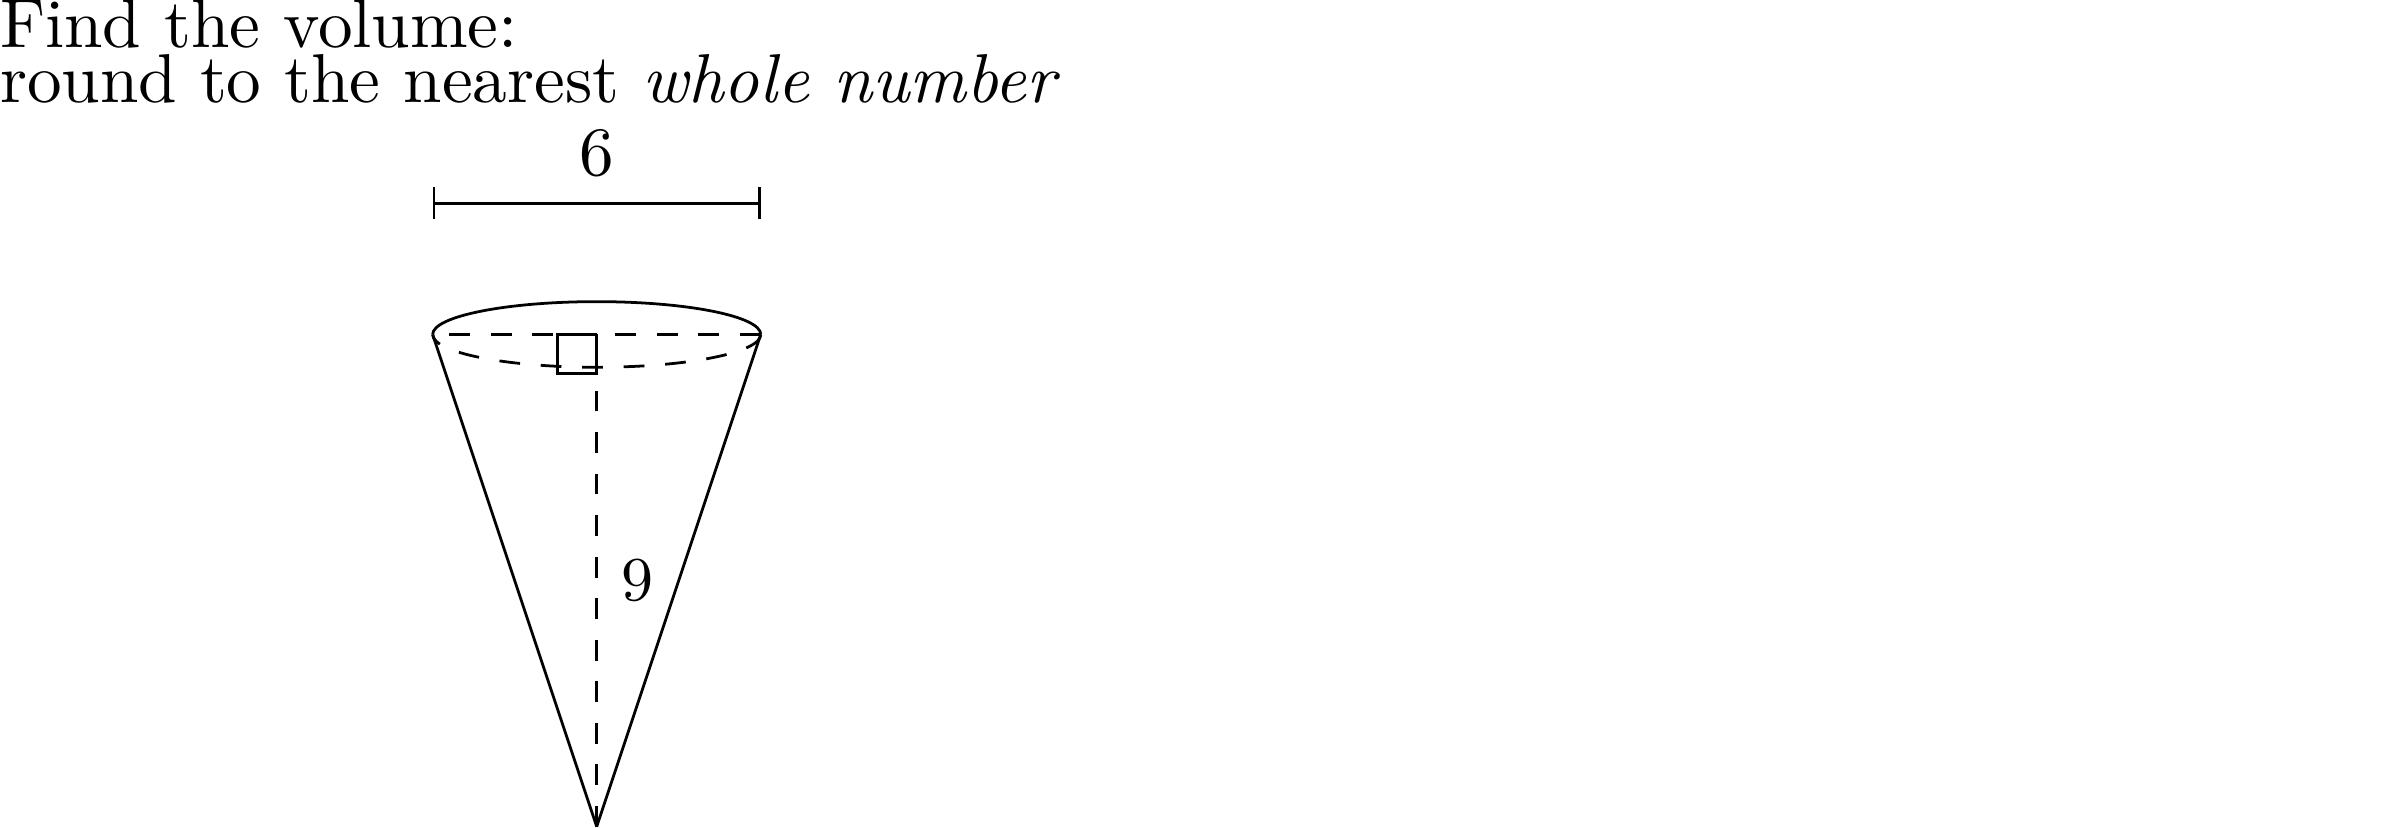
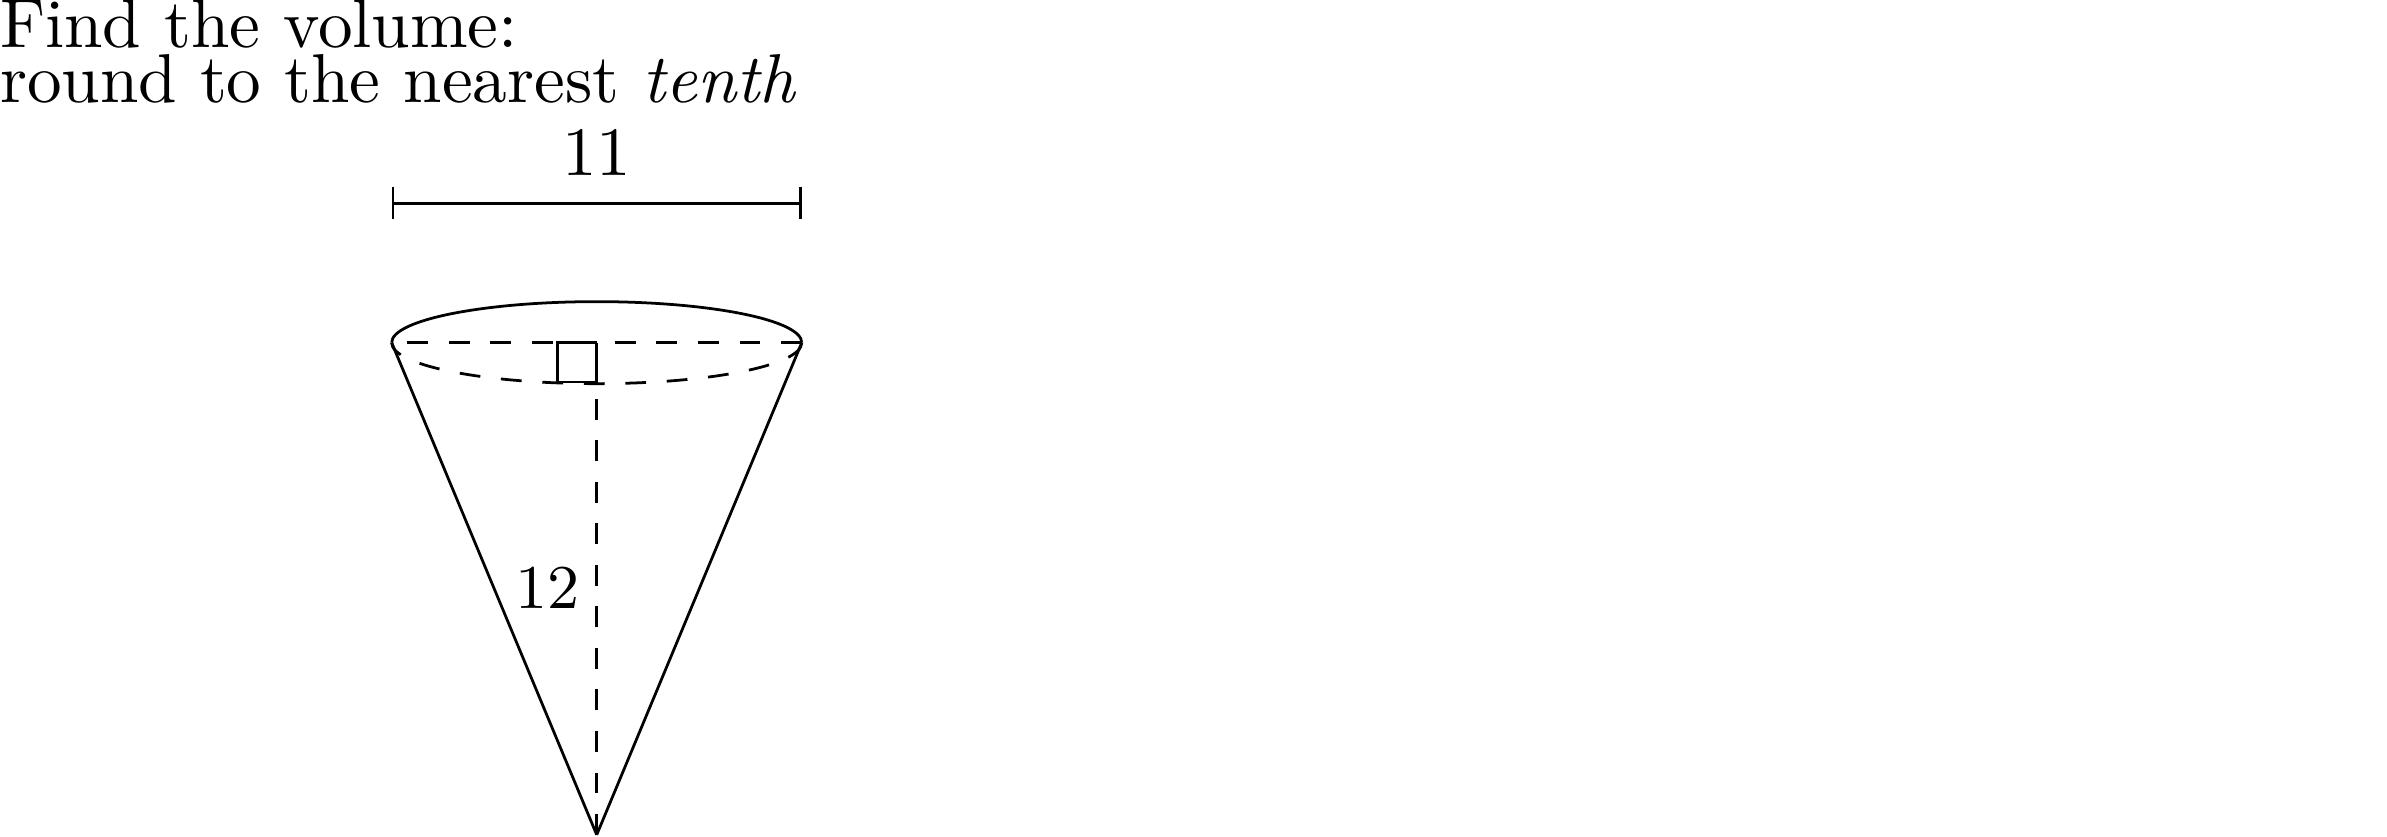
cone is much cleaner

diff --git a/creatingWorksheets/utils/shapes.py b/creatingWorksheets/utils/shapes.py
@@ -557,9 +557,9 @@ def cone(options = 'rotate=0, scale=1', doc = None, wholeFigureRotation = 0, hei
 		if radiusLabeledOnDiagram == True:
 			#label radius midway - coordinate of point that is midway but higher
 			if radiusDirection == 'left':
-				node(x1 = conePoints['left'][0] + scaledRadius*.5, y1 = 0, label = str(radiusValue), position = 'below', doc = doc)
+				labelWholeSide(x2 = conePoints['left'][0], x1 = conePoints['center'][0], y2 = conePoints['left'][1] - .2*scaledRadius -.2, y1 = conePoints['center'][1] - .2*scaledRadius-.2, nodePosition = 'below', nodeLabel = str(diameterValue), doc = doc)
 			else:
-				node(x1 = conePoints['right'][0] - scaledRadius*.5, y1 = 0, label = str(radiusValue), position = 'below', doc = doc)
+				labelWholeSide(x2 = conePoints['center'][0], x1 = conePoints['right'][0], y2 = conePoints['center'][1] - .2*scaledRadius -.2, y1 = conePoints['right'][1] - .2*scaledRadius-.2, nodePosition = 'below', nodeLabel = str(diameterValue), doc = doc)
 
 		if slantHeightLabeledOnDiagram == True:
 			#label slant height left or right
